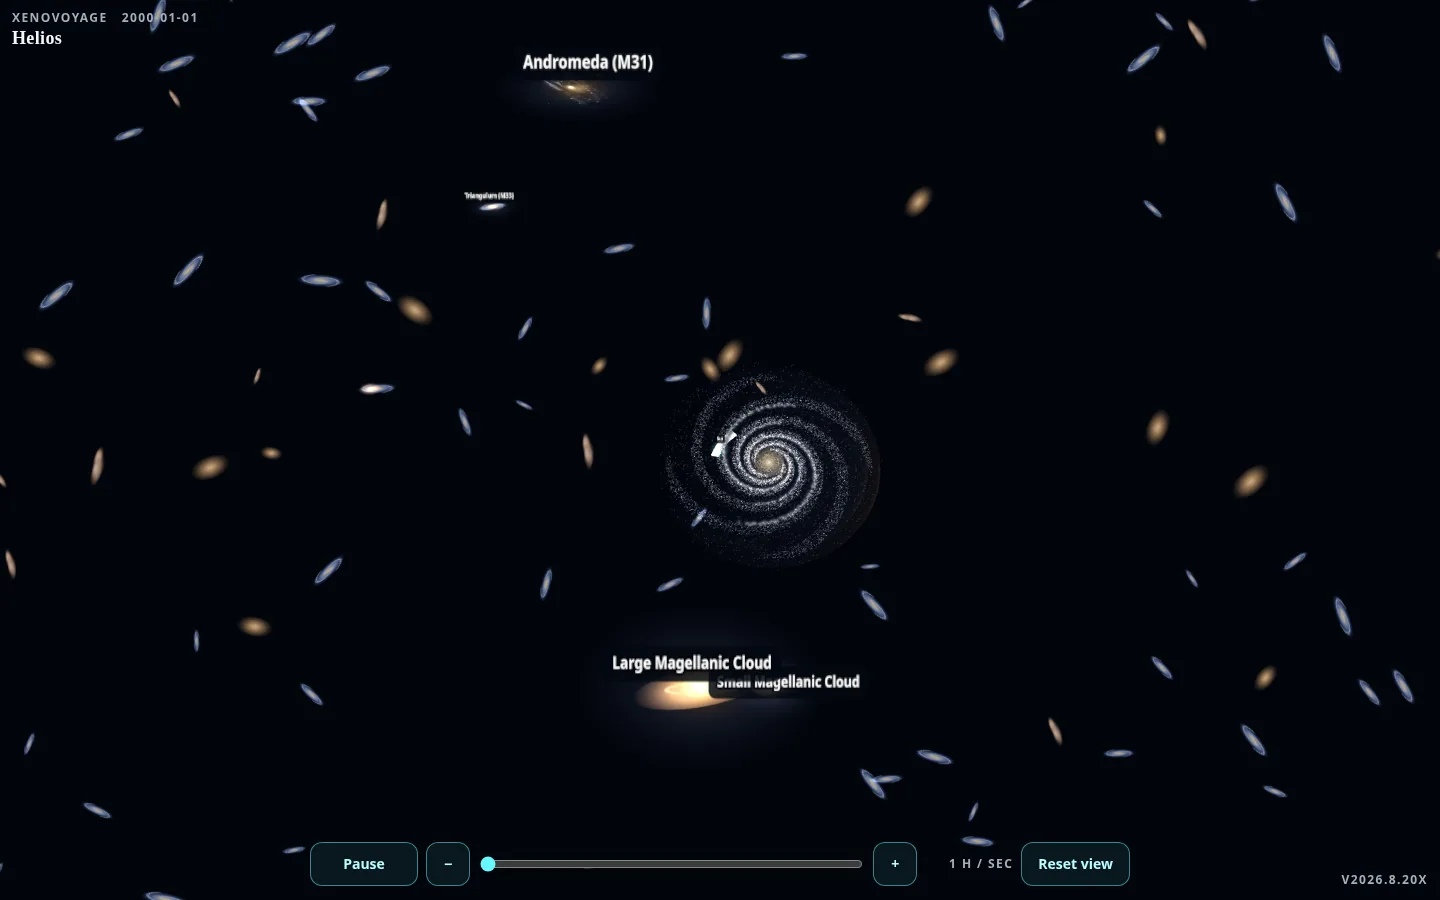
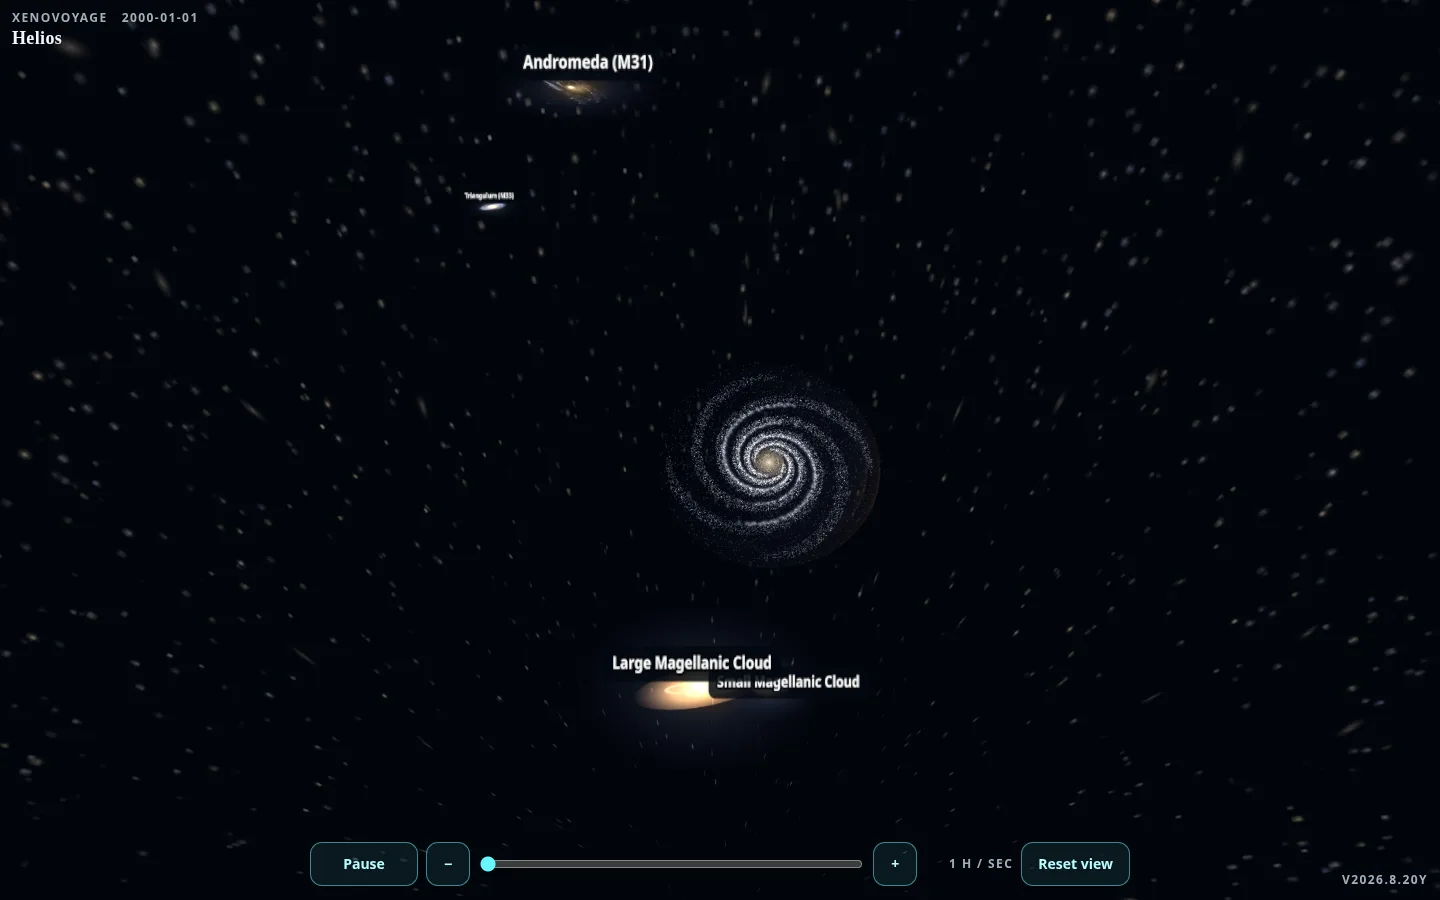
Recapture the extra-zoom ride on the restored galaxy-image skybox

diff --git a/js/galaxy.js b/js/galaxy.js
@@ -1800,13 +1800,13 @@ function createDeepField(THREE, group, maps) {
   for (const hub of hubs) {
     if (hub.home) continue;
     const kind = kinds[Math.floor(rand() * kinds.length)];
-    // Hubs are at least radius * 0.052 apart; staying near half that
-    // spacing keeps every galaxy separated, never a colliding swarm.
-    const size = radius * (0.016 + rand() * 0.014);
+    // Hubs are at least radius * 0.052 apart; staying under two half-sizes
+    // of that spacing keeps every galaxy separated, never a colliding swarm.
+    const size = radius * (0.026 + rand() * 0.02);
     const sprite = new THREE.Sprite(unlitSprite(THREE, {
       map: maps[kind],
       color: kind === "elliptical" ? 0xffe6c4 : 0xf2f6ff,
-      opacity: 0.92,
+      opacity: 0.95,
       rotation: rand() * Math.PI,
       blending: THREE.AdditiveBlending,
     }));
